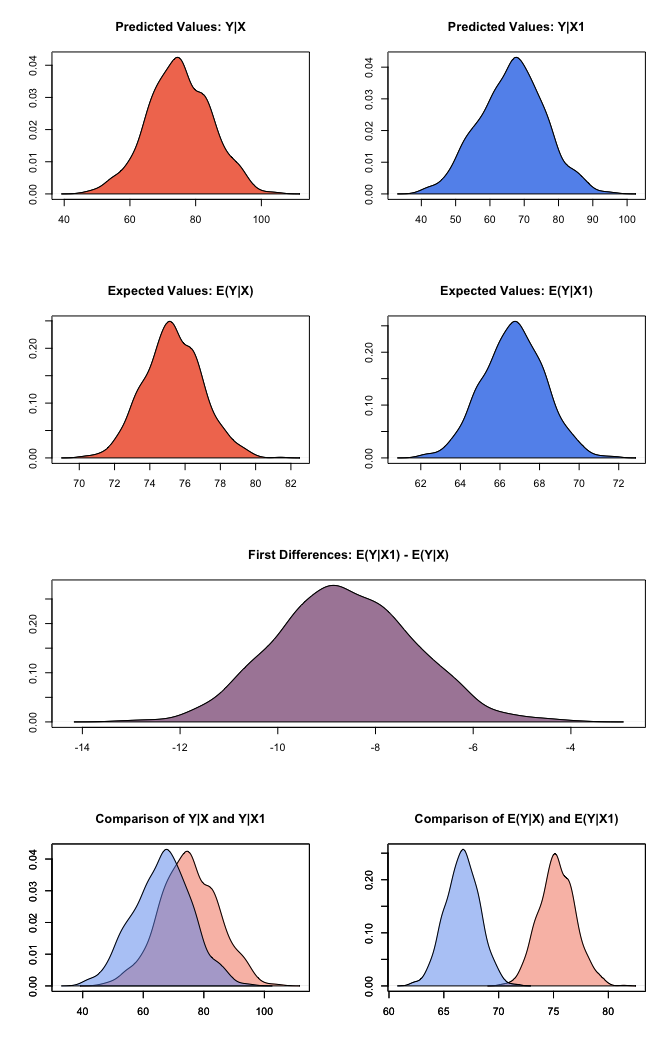
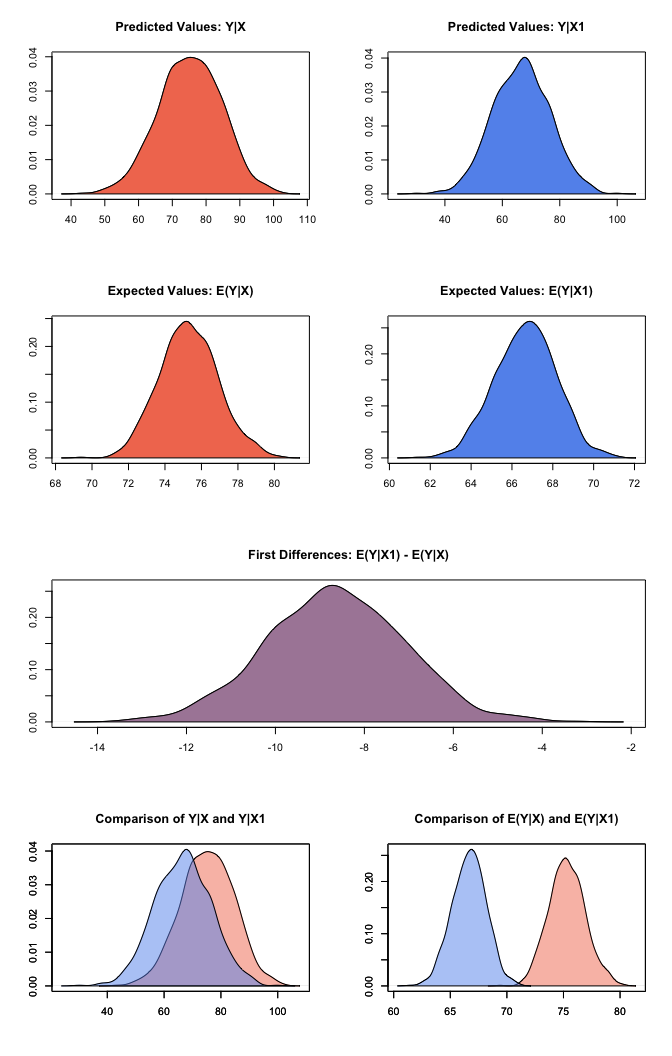
coefMatPrint for mi data

diff --git a/README.md b/README.md
@@ -180,22 +180,22 @@ After setting our predictor value, we simulate using the `sim()` method:
     ##  -----
     ## ev
     ##       mean       sd      50%     2.5%    97.5%
-    ## 1 75.31914 1.648581 75.29701 72.20557 78.66381
+    ## 1 75.31088 1.603508 75.27013 72.28245 78.69988
     ## pv
-    ##          mean       sd      50%     2.5%   97.5%
-    ## [1,] 75.08015 9.583272 74.82389 55.29011 93.7704
+    ##          mean       sd      50%     2.5%    97.5%
+    ## [1,] 75.24848 9.287465 75.37531 57.04465 92.80978
     ## 
     ##  sim x1 :
     ##  -----
     ## ev
-    ##       mean       sd      50%     2.5%    97.5%
-    ## 1 66.68801 1.552959 66.71675 63.66693 69.76505
+    ##       mean       sd      50%     2.5%   97.5%
+    ## 1 66.66557 1.493453 66.71342 63.75284 69.4476
     ## pv
-    ##          mean       sd      50%    2.5%    97.5%
-    ## [1,] 66.44432 9.529581 66.95492 47.8085 85.39021
+    ##          mean       sd     50%    2.5%    97.5%
+    ## [1,] 66.66138 9.868177 66.7948 47.3323 85.96712
     ## fd
     ##        mean       sd       50%      2.5%     97.5%
-    ## 1 -8.631135 1.411158 -8.690201 -11.26897 -5.983483
+    ## 1 -8.645306 1.551218 -8.657472 -11.68301 -5.700525
 
 At this point, we’ve estimated a model, set the predictor value, and
 estimated easily interpretable quantities of interest. The `summary()`

diff --git a/NEWS.md b/NEWS.md
@@ -30,8 +30,7 @@ outside of the `zelig` call. #238
 
 ## Minor changes and bug fixes
 
-- Resolve a bug where appropriate `plot`s were not created for `mlogitbayes`. 
-#206
+- Resolve a bug where appropriate `plot`s were not created for `mlogitbayes`. #206
 
 - Arguments (such as `xlab`) can now be passed to `plot`. #237
 
@@ -40,6 +39,9 @@ resolved. #235
 
 - Resolved a bug where `coef`, `coefficients`, `vcov`, `fitted`, and `predict`
 returned errors. Thanks to @vincentarelbundock for initially reporting. #231
+
+- Reduced number of digits show from `summary` for fitted model objects.
+
 
 
 Zelig version 5.0-16
@@ -137,7 +139,7 @@ Zelig version 5.0-14
 - `mode` has been deprecated. Please use `Mode`. #152
 
 - The Zelig 4 `sim` wrapper now intelligently looks for fitted values from the
-reference class object if not supplied via the \code{x} argument.
+reference class object if not supplied via the x argument.
 
 - New `to_zelig_mi` utility function for combining multiply imputed data sets 
 for passing to `zelig`. `mi` will also work to enable backwards compatibility. #178
